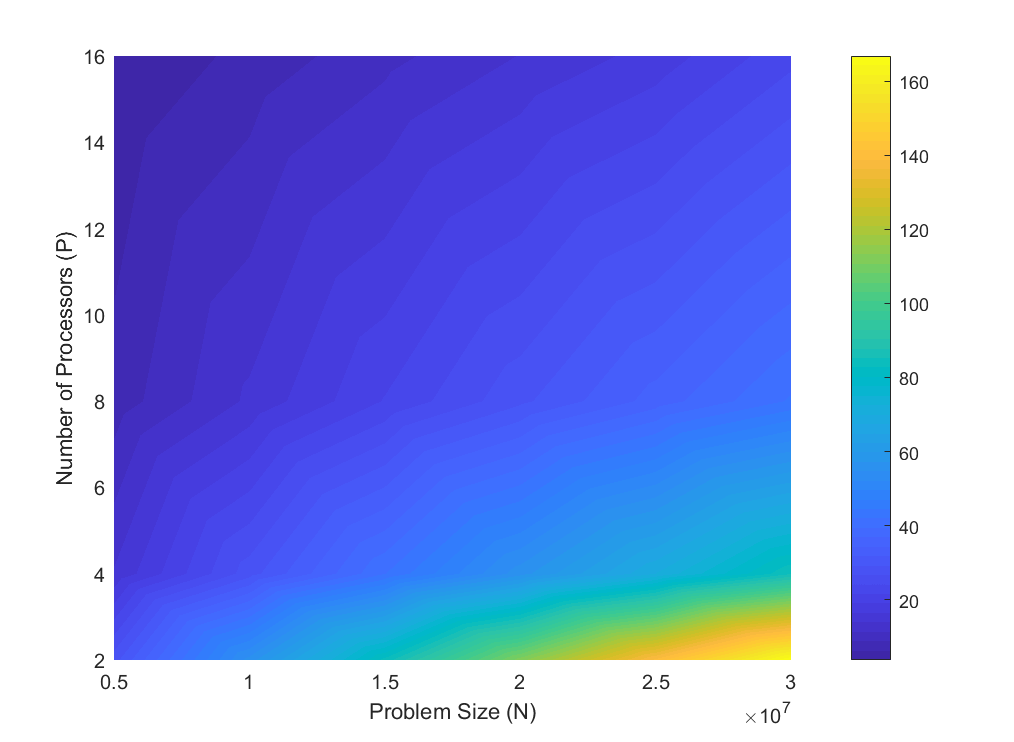
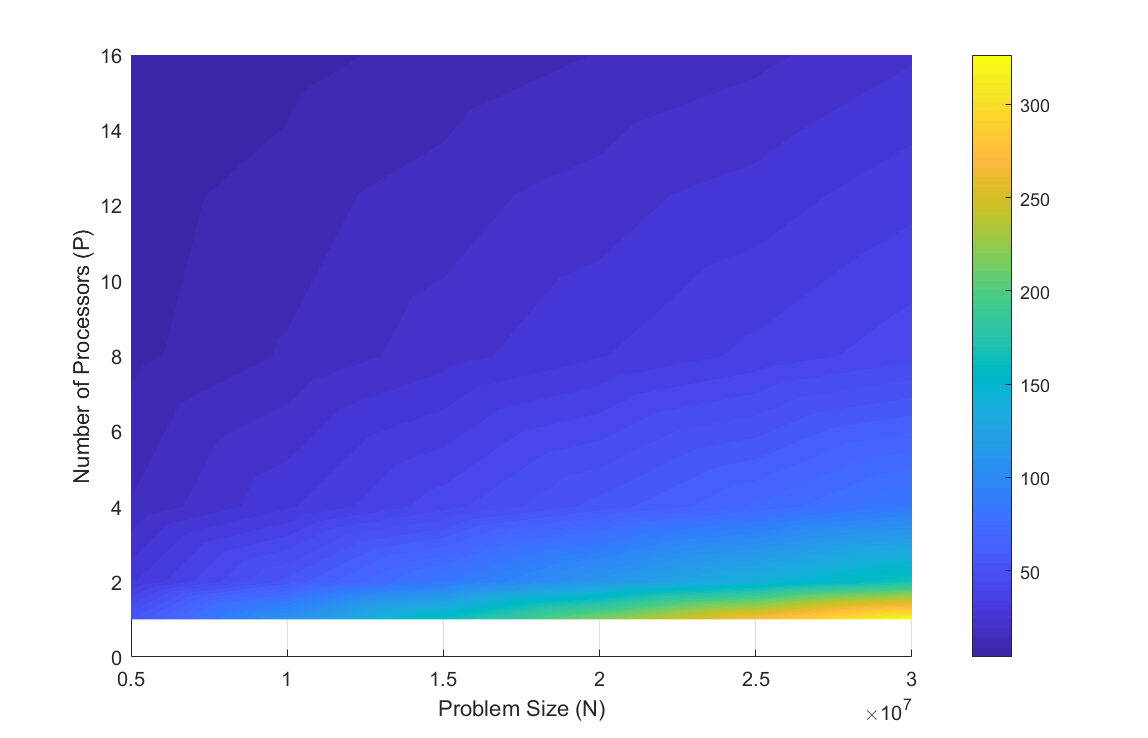
Update graphs, prog1, add team.txt
Final version of analysis/graphs
Moved timer to after Bcast
Added team.txt file

diff --git a/prog1.c b/prog1.c
@@ -16,9 +16,6 @@ int dboard(int n);
 // Gen random number between 0 and 1
 double gen_random(void);
 
-// Create output file
-void write_file(int N, int R, int size, double approx_pi, double time);
-
 int main(int argc, char** argv) {
 
     // Parallel
@@ -27,10 +24,6 @@ int main(int argc, char** argv) {
     MPI_Init(&argc, &argv);
     MPI_Comm_rank(MPI_COMM_WORLD, &rank);
     MPI_Comm_size(MPI_COMM_WORLD, &size);
-
-    // Timer start
-    MPI_Barrier(MPI_COMM_WORLD); // ensure all nodes ready to proceed before starting timer
-    double start = MPI_Wtime();
 
     int N = 0, R = 0;       // N is the number of darts simulated per round, R is number of round
     int collective_m = 0;   // Used by master, to collect sum of m from other processors each iteration
@@ -69,6 +62,9 @@ int main(int argc, char** argv) {
     MPI_Bcast(&N, 1, MPI_INT, 0, MPI_COMM_WORLD);
     MPI_Bcast(&R, 1, MPI_INT, 0, MPI_COMM_WORLD);
     MPI_Barrier(MPI_COMM_WORLD);
+	
+	// Timer start
+    double start = MPI_Wtime();
 
     // N may not be divisible to p, hence + 1 if rank is samller than N % p
     int num_iter = N / size;
@@ -90,8 +86,7 @@ int main(int argc, char** argv) {
     // Compute PI 
     if(rank == 0){
         double avg_m = (double)global_m / R; 
-        approx_pi = 2.0 * N / avg_m;
-        printf("Approx PI: %.6f \n", approx_pi);
+        approx_pi = 2.0 * N / avg_m;		
     }
 
     // End timer
@@ -101,8 +96,7 @@ int main(int argc, char** argv) {
 
     // Write output to file
     if(rank == 0) {
-    	printf("Time: %lf\n", end-start);
-    	write_file(N, R, size, approx_pi, end-start);
+    	printf("N=%d, R=%d, P=%d, PI=%lf\nTime=%lf\n", N, R, size, approx_pi, end-start);
     }
 
     return 0;
@@ -130,13 +124,4 @@ int dboard(int n){
 
 double gen_random(){
     return (double) rand()/ ((double)RAND_MAX + 1); // +1 to exclude 1.0 edge case (on circumf of circle)
-}
-
-void write_file(int N, int R, int size, double approx_pi, double time) {
-	char fname[50];
-	sprintf(fname, "output_%d_%d_%d.txt", N, R, size);
-	FILE *f = fopen(fname, "w");
-	fprintf(f, "N=%d, R=%d, P=%d, PI=%lf\nTime=%lf", N, R, size, approx_pi, time);
-	fclose(f);
-	return;
 }

diff --git a/hpc_prog1_analysis.m b/hpc_prog1_analysis.m
@@ -1,11 +1,11 @@
 n = 5e6:5e6:30e6;
-p = [2,4,8,16];
-t = [28.0656096	14.1448124	7.266578	3.7038872;
-55.7732146	28.0240602	14.4186642	7.0657734;
-83.6011576	41.8299704	21.717516	10.5313456;
-112.1091464	56.0855564	28.5302262	13.9904882;
-139.4980772	70.00199	35.3607082	17.45614;
-166.8114676	84.9627832	42.2635888	23.2427518];
+p = [1,2,4,8,16];
+t = [54.6972438	28.0656096	14.1448124	7.266578	3.7038872;
+110.0044676	55.7732146	28.0240602	14.4186642	7.0657734;
+162.7881606	83.6011576	41.8299704	21.717516	10.5313456;
+218.1579074	112.1091464	56.0855564	28.5302262	13.9904882;
+273.4388614	139.4980772	70.00199	35.3607082	17.45614;
+326.398724	166.8114676	84.9627832	42.2635888	23.2427518];
 
 [nn, pp] = meshgrid(n,p);
 surf(nn,pp,t');

diff --git a/README.md b/README.md
@@ -20,14 +20,15 @@ Note: please install MPI beforehand.
 ```
 cd HPC_PI_Approx  
 make
-make run p=2 n=100 r=2
+make run p=2 n=5000000 r=2
 
 // Output:
-Approx PI: X.XXXXXX
+N=500000, R=2, P=2, PI=X.XXXXXX
+Time=XXX.XXXXXX
 
 ```
 
 The example command is equivalent
 ```
-mpirun -np 2 ./100 2
+mpirun -np 2 ./prog1 5000000 2
 ```
